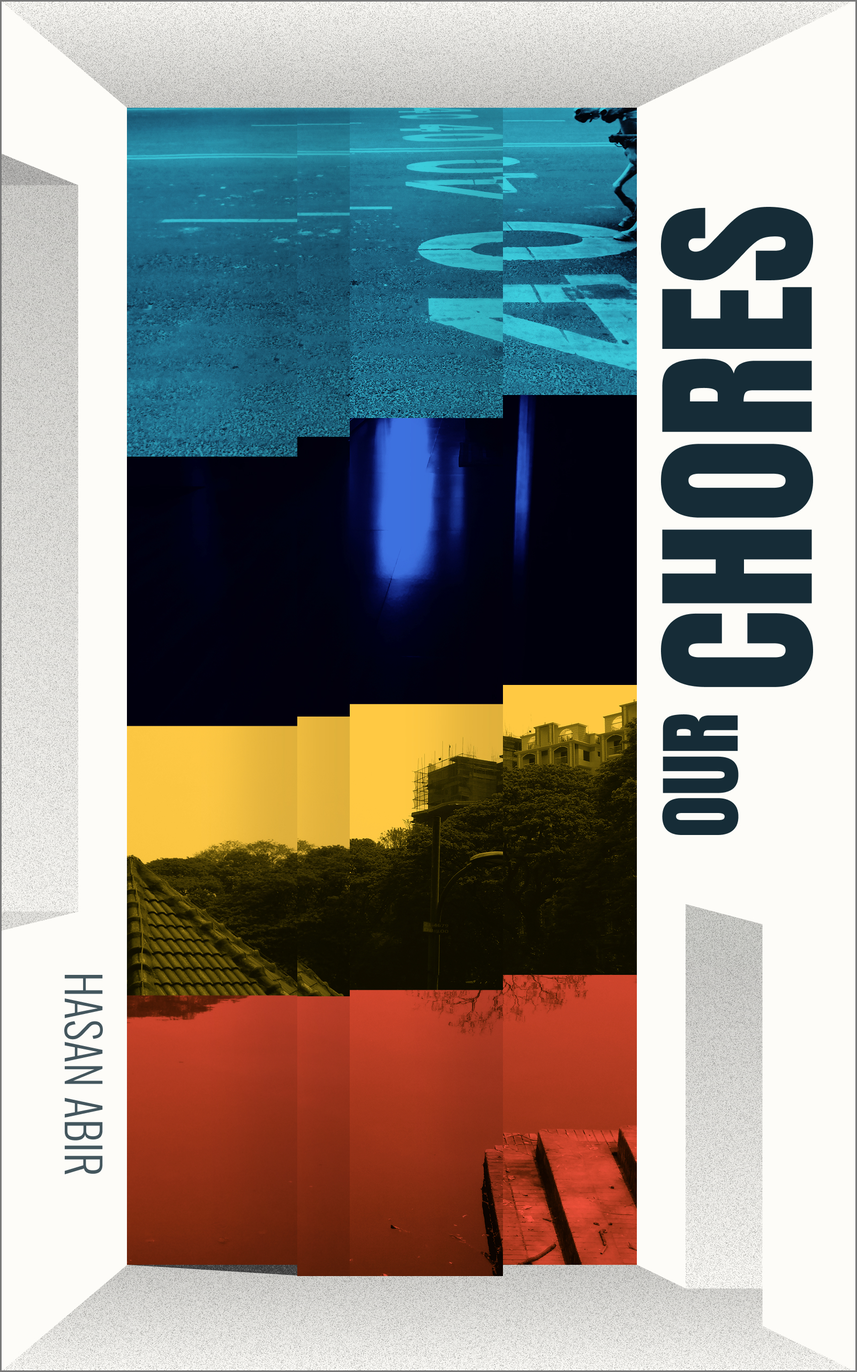
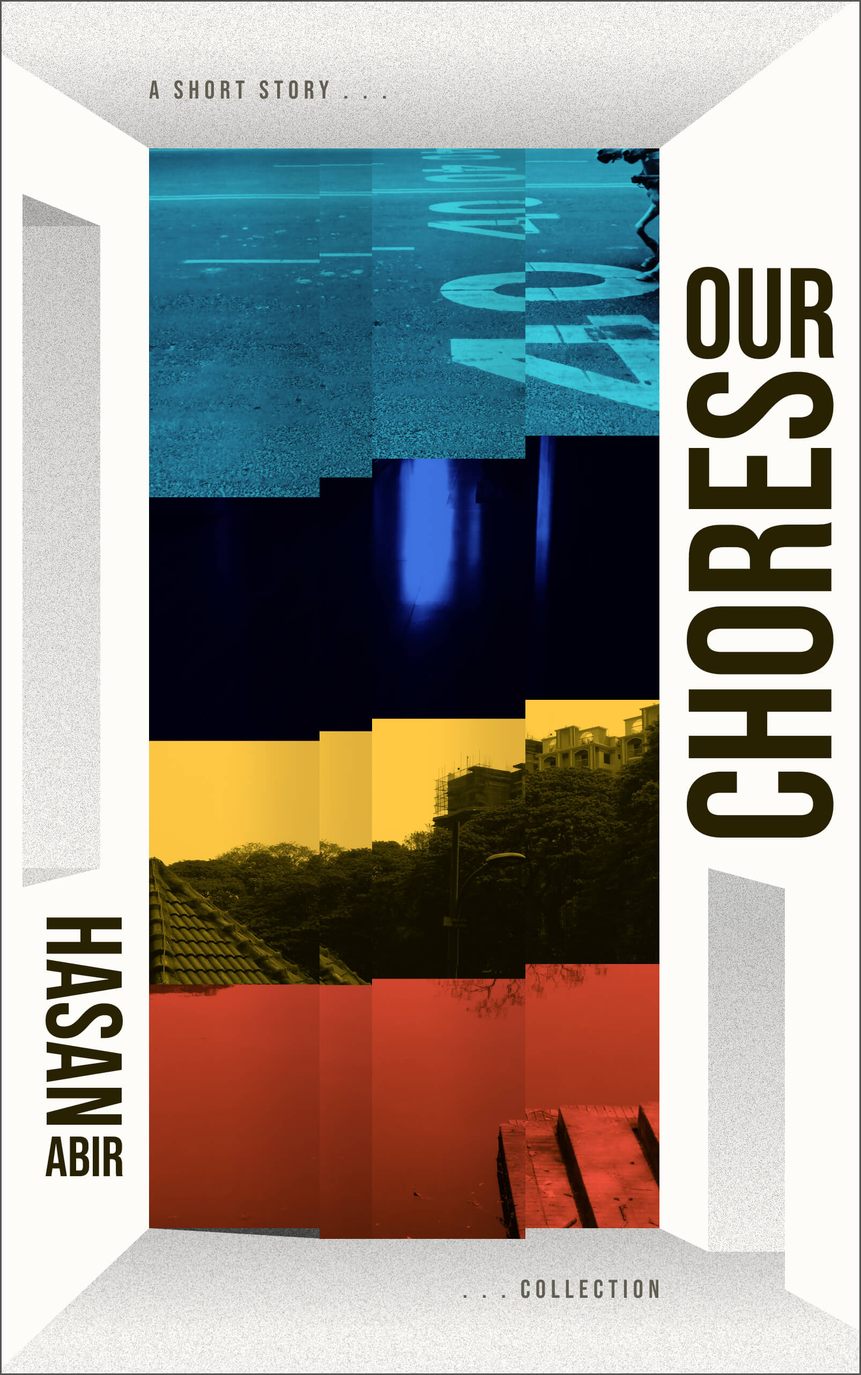
books with paintings

diff --git a/frontend/src/components/Slide.tsx b/frontend/src/components/Slide.tsx
@@ -1,23 +1,25 @@
 "use client";
-import { Painting } from "@/lib/remark/getContent";
+import { Book, Painting, Song } from "@/lib/remark/getContent";
 import Image from "next/image";
 
 interface Props {
-  item: Painting;
+  item: Painting | Book | Song;
 }
 
 const Slide = ({ item }: Props) => {
   return (
     <div className="h-[400px] flex items-end justify-center">
       <div className="h-80 w-full overflow-hidden flex items-center">
-        <Image
-          className="h-[300%] w-[300%] object-cover"
-          width="0"
-          height="0"
-          sizes="100vw"
-          src={item.thumbnail}
-          alt="random"
-        />
+        {Object.keys(item).includes("thumbnail") ? (
+          <Image
+            className="h-[300%] w-[300%] object-cover"
+            width="0"
+            height="0"
+            sizes="100vw"
+            src={(item as Book | Painting).thumbnail}
+            alt="random"
+          />
+        ) : null}
       </div>
 
       {/* <p className="h-80 w-full text-center p-8 text-3xl font-bold  bg-gray-700 text-light-50 uppercase"> */}

diff --git a/frontend/src/app/page.tsx b/frontend/src/app/page.tsx
@@ -23,6 +23,13 @@ const Home = async ({
 
     return aDate - bDate;
   });
+  let books = await getAllContentData<Book>("books");
+  books.sort((a, b) => {
+    const aDate = new Date(b.published_date).getTime();
+    const bDate = new Date(a.published_date).getTime();
+
+    return aDate - bDate;
+  });
 
   // if (!contentFolder) {
   //   contentFolder = getTheLatestContent();
@@ -37,7 +44,7 @@ const Home = async ({
   return (
     <div className="page-container min-h-screen px-6">
       <HomeHero />
-      <ArtSlider content={[...paintings]} />
+      <ArtSlider content={[...books, ...paintings]} />
     </div>
   );
 };

diff --git a/frontend/src/components/ArtSlider.tsx b/frontend/src/components/ArtSlider.tsx
@@ -3,10 +3,10 @@
 import "swiper/css";
 import { Swiper, SwiperSlide } from "swiper/react";
 import Slide from "@/components/Slide";
-import { Painting } from "@/lib/remark/getContent";
+import { Book, Painting, Song } from "@/lib/remark/getContent";
 
 interface Props {
-  content: Painting[];
+  content: (Painting | Book | Song)[];
 }
 
 const ArtSlider = ({ content }: Props) => {

diff --git a/frontend/src/lib/remark/getContent.ts b/frontend/src/lib/remark/getContent.ts
@@ -11,7 +11,7 @@ export interface Book {
   content: string;
   content_short: string;
   published_date: string;
-  cover_image: string;
+  thumbnail: string;
   amazon_link: string;
   category: string;
   format: string;

diff --git a/frontend/src/content/books/our-chores.md b/frontend/src/content/books/our-chores.md
@@ -1,7 +1,7 @@
 ---
 title: "Our Chores"
 published_date: 2026-01-01
-cover_image: "/covers/our-chores-cover.jpg"
+thumbnail: "/covers/our-chores-cover.jpg"
 amazon_link: "https://mybook.to/OurChores/"
 category: "Literary Fiction"
 format: "Novelette / Story Collection"

diff --git a/frontend/src/content/books/our-digs.md b/frontend/src/content/books/our-digs.md
@@ -1,7 +1,7 @@
 ---
 title: "Our Digs"
 published_date: 2026-01-01
-cover_image: "/covers/our-digs-cover.jpg"
+thumbnail: "/covers/our-digs-cover.jpg"
 amazon_link: "https://mybook.to/OurDigs/"
 category: "Poetry"
 format: "Poetry Collection / Hardcover"
